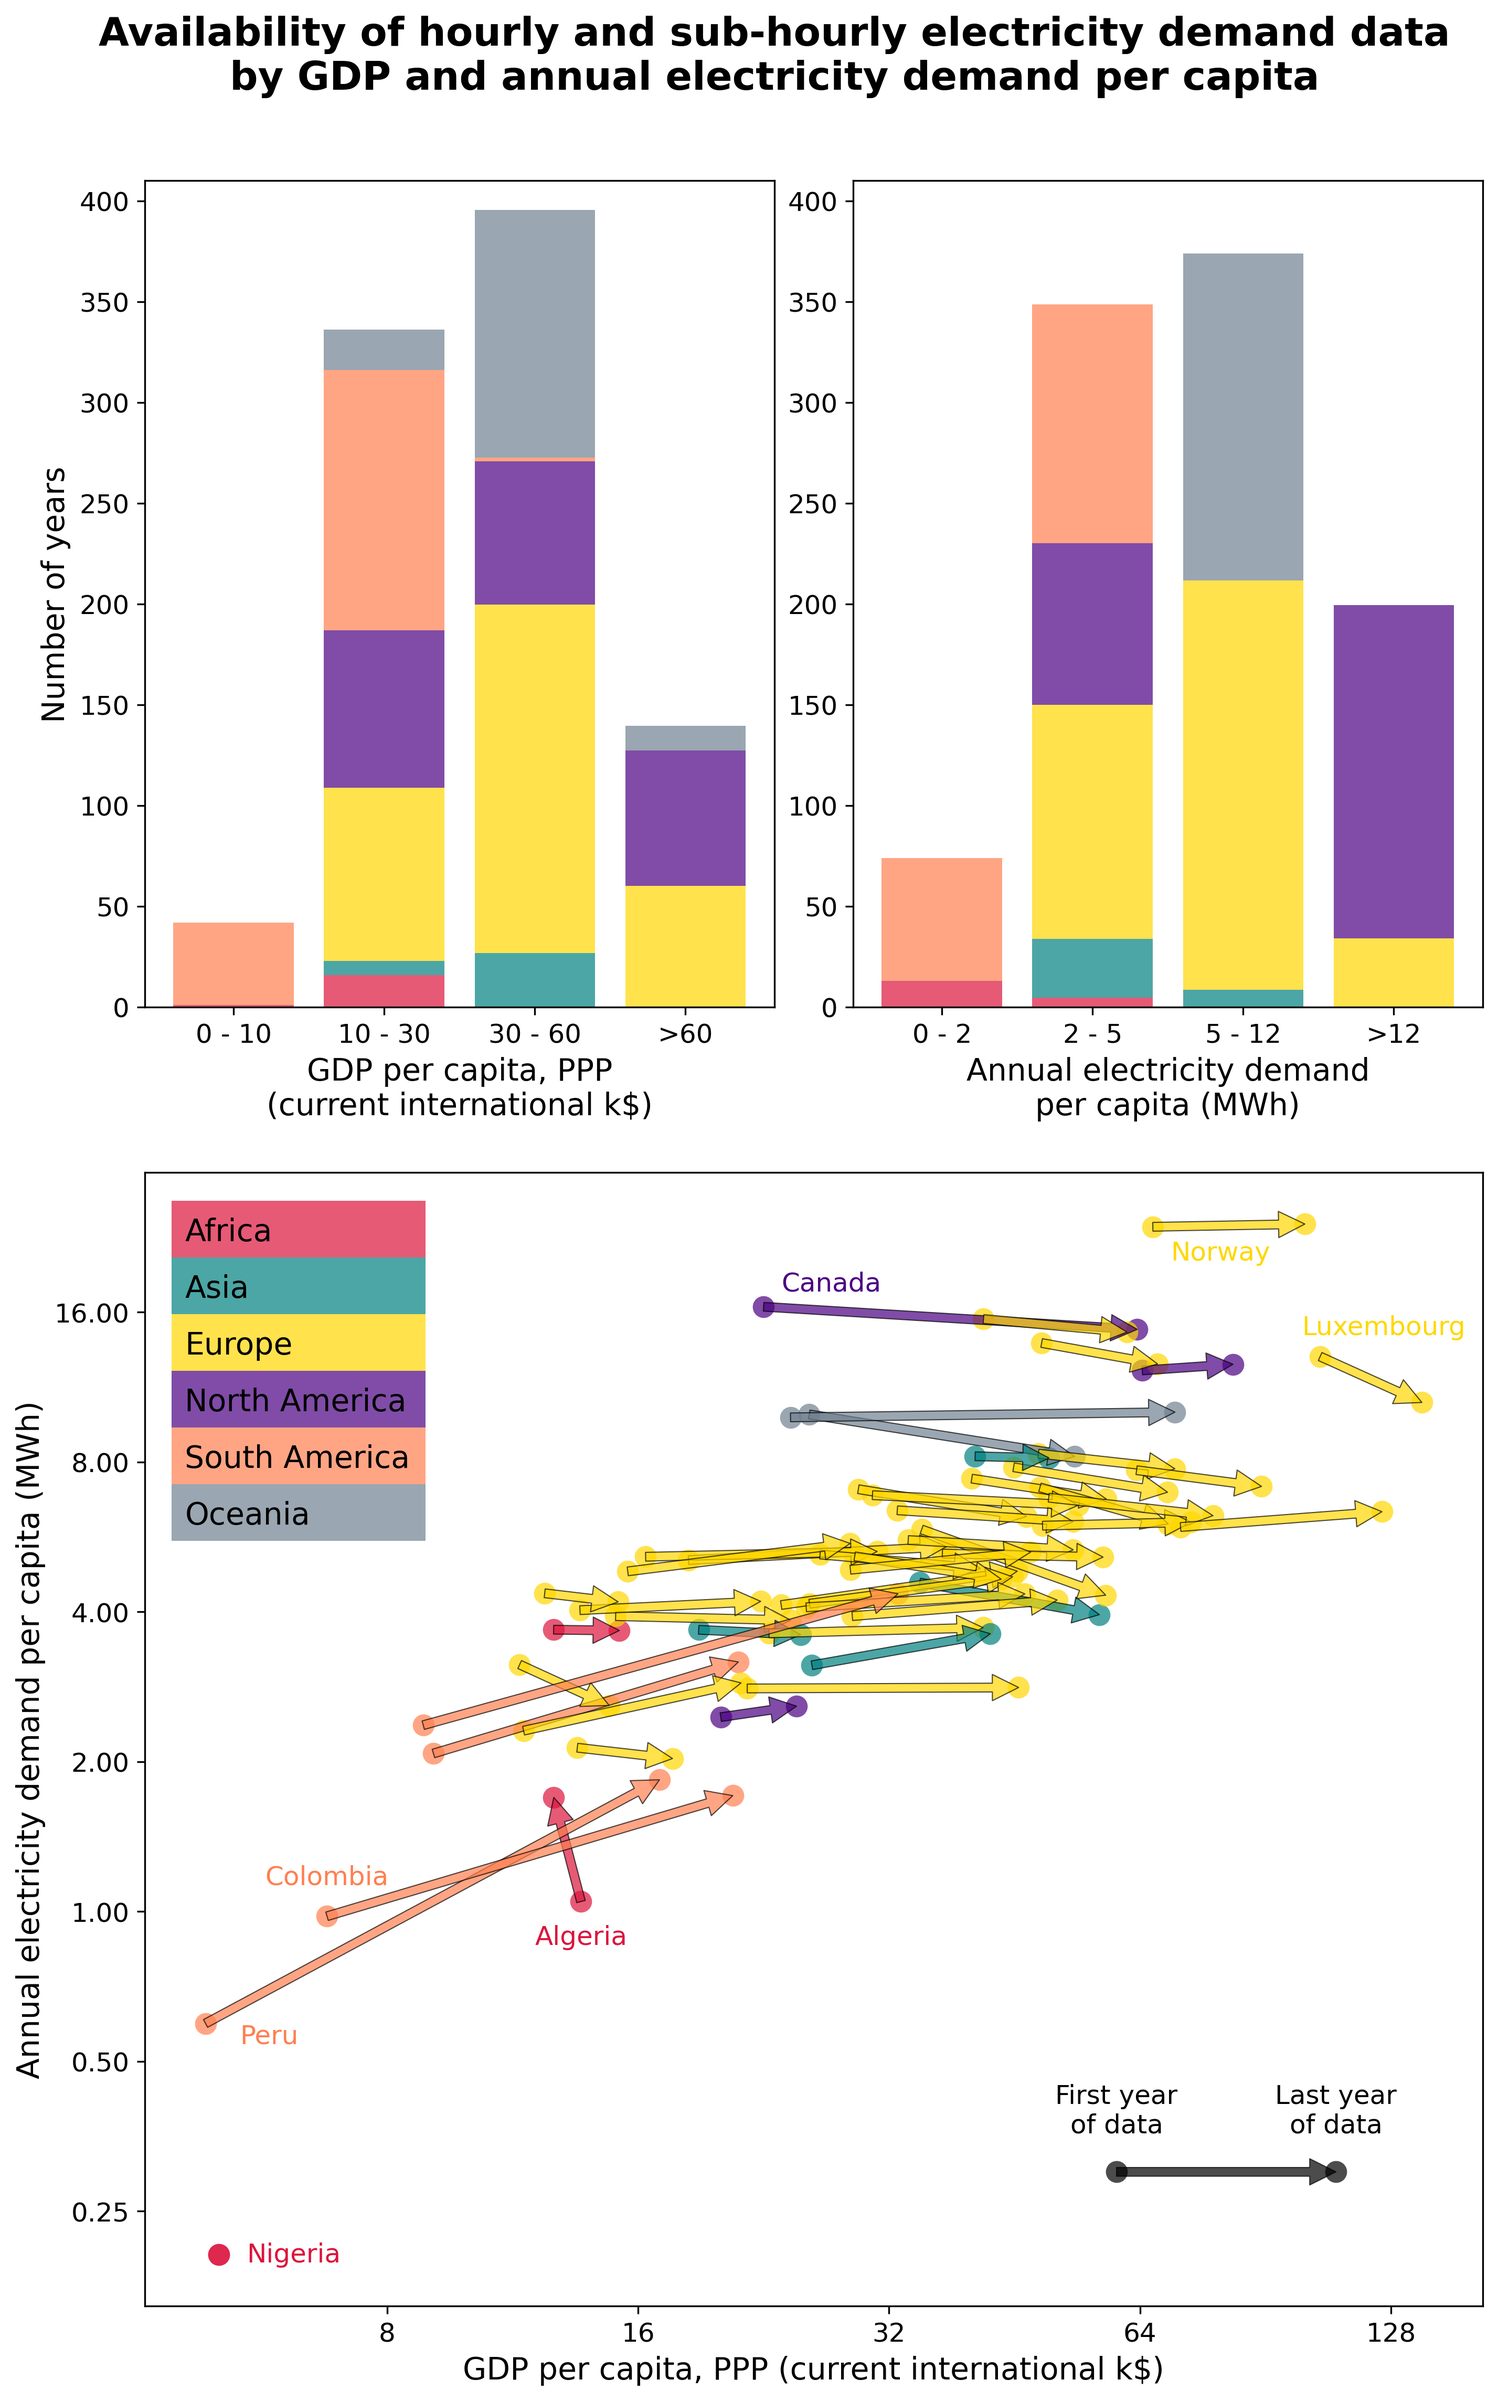
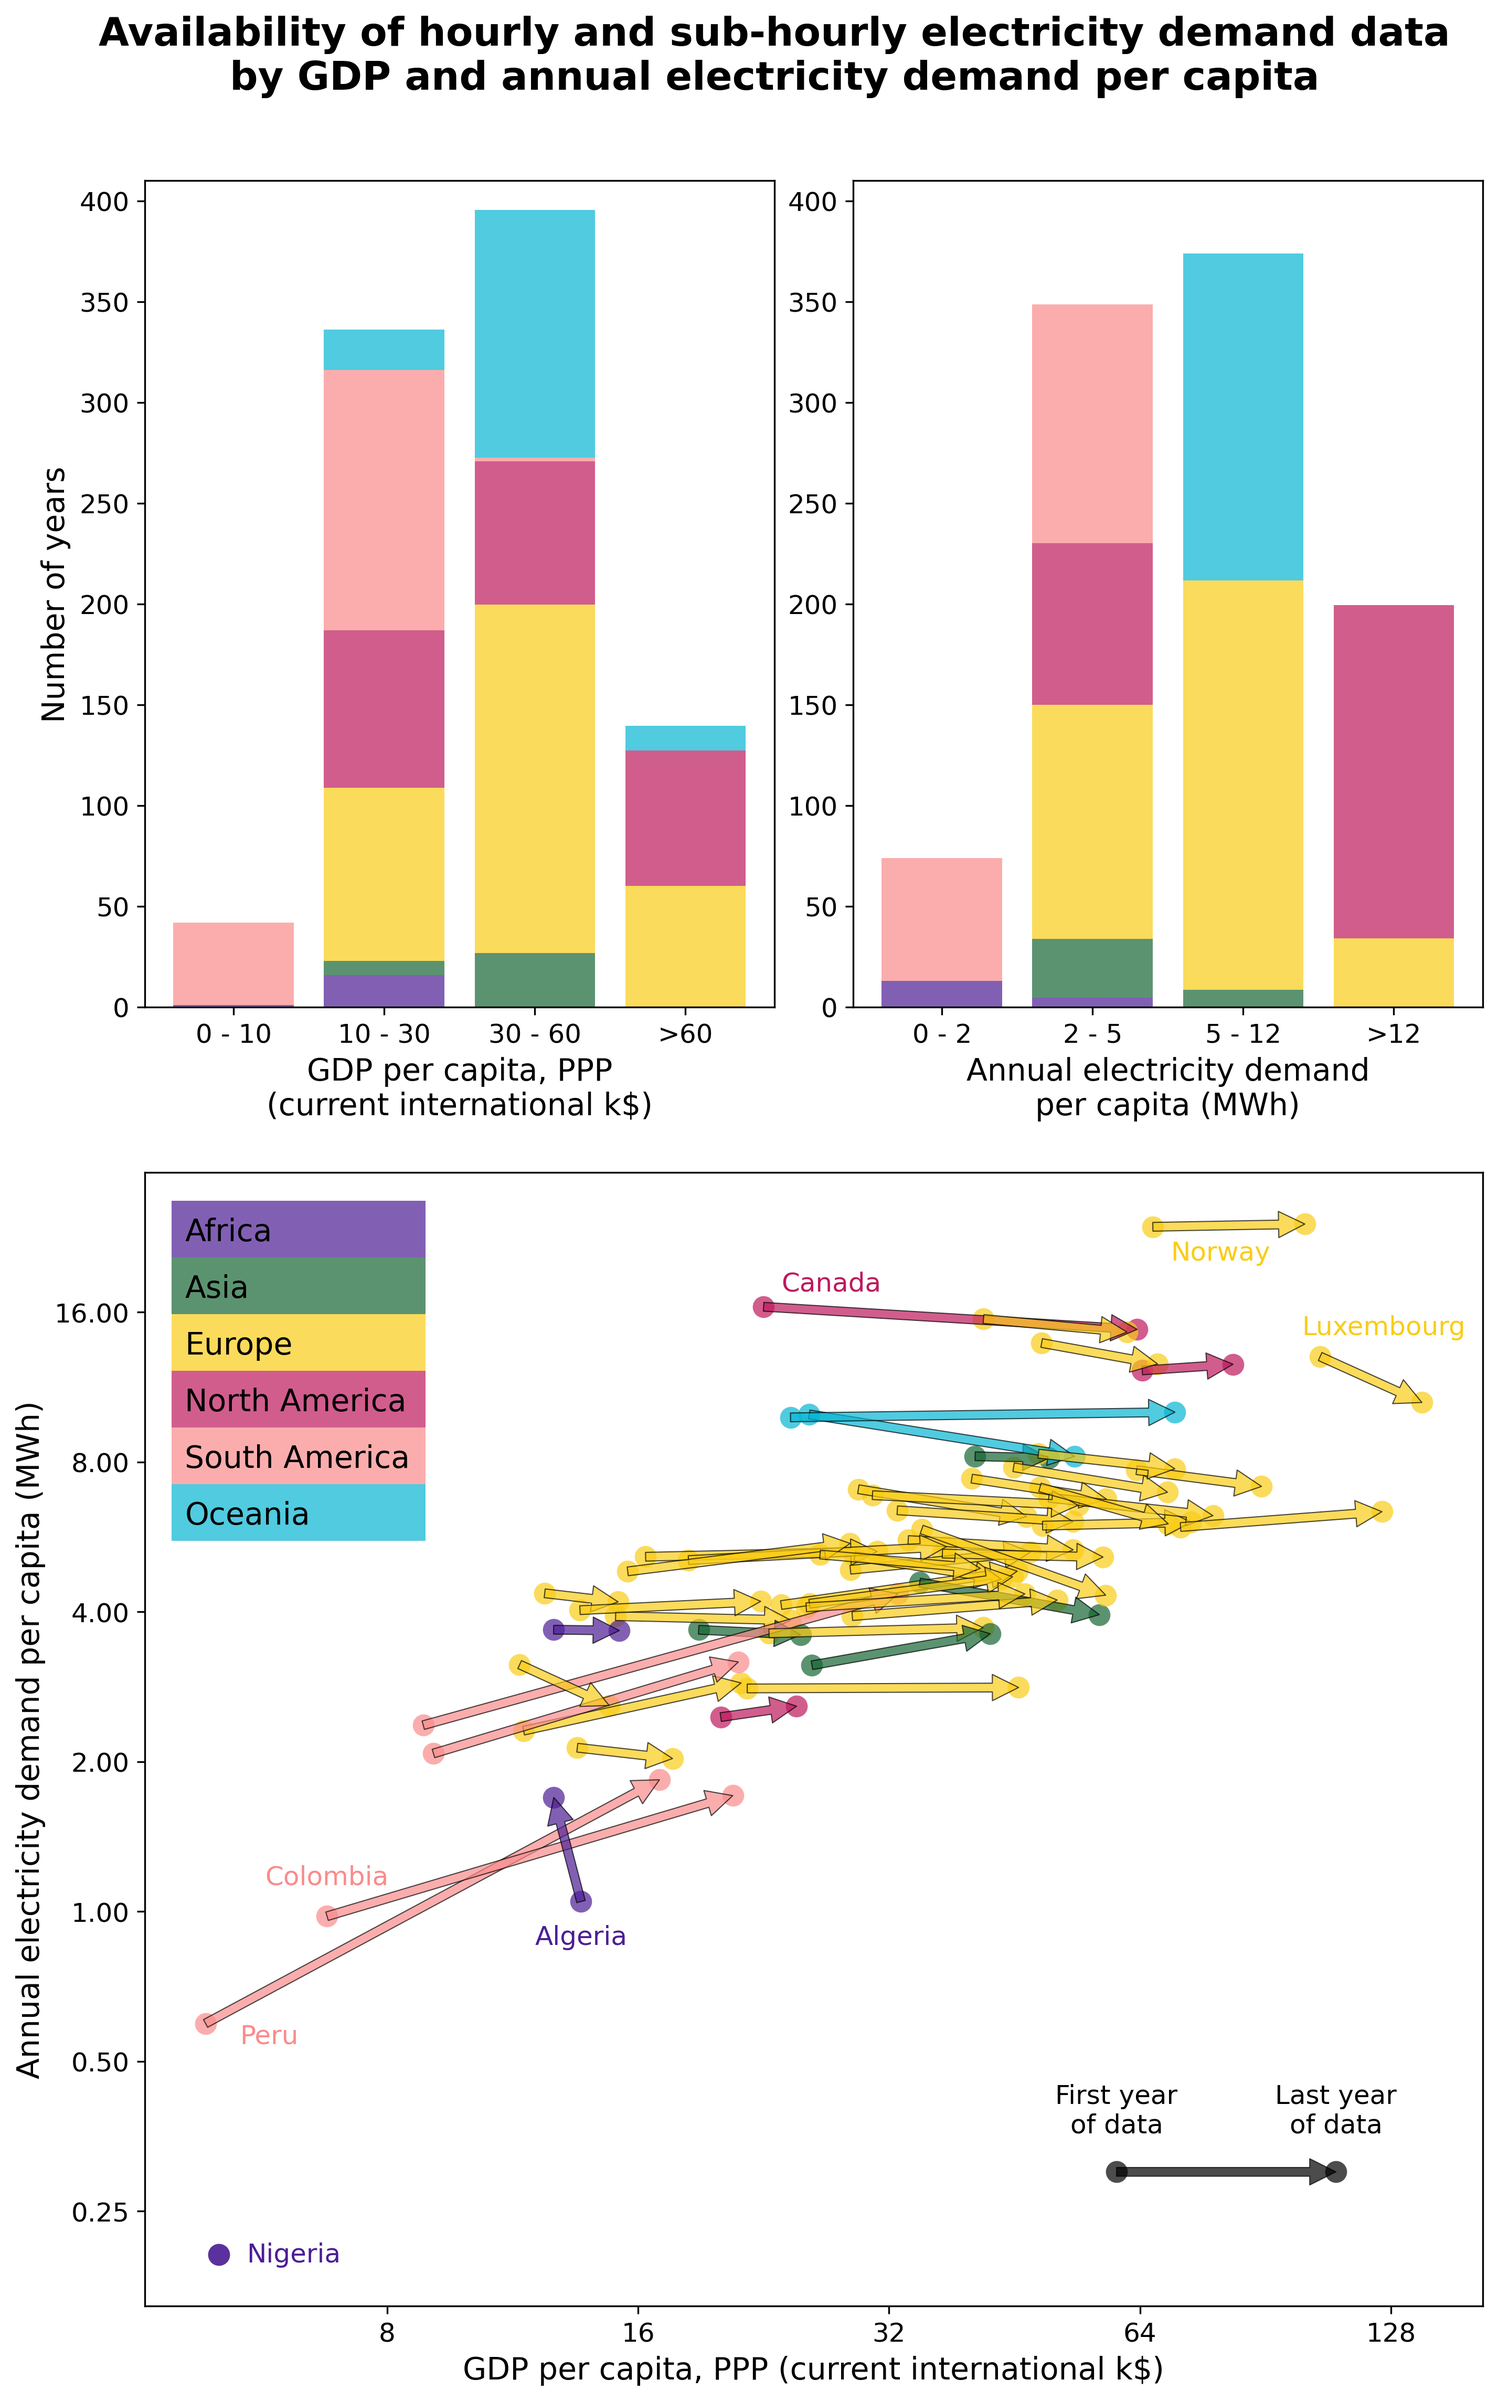
Updated colors

diff --git a/ETL/draw_data_availability.py b/ETL/draw_data_availability.py
@@ -27,6 +27,7 @@ import pandas
 import requests
 import util.directories
 import util.entities
+from tailwind_colors import TAILWIND_COLORS_HEX
 
 
 def get_year_fractions(codes: list[str]) -> dict[str, dict[str, float]]:
@@ -511,12 +512,12 @@ gdp_occurrence = get_occurrences(
 
 # Define the colors for the continents.
 colors = {
-    "AF": "crimson",  # Africa
-    "AS": "teal",  # Asia
-    "EU": "gold",  # Europe
-    "NA": "indigo",  # North America
-    "SA": "coral",  # South America
-    "OC": "slategray",  # Oceania
+    "AF": TAILWIND_COLORS_HEX.VIOLET_900, # Africa
+    "AS": TAILWIND_COLORS_HEX.GREEN_800, # Asia
+    "EU": TAILWIND_COLORS_HEX.YELLOW_400, # Europe
+    "NA": TAILWIND_COLORS_HEX.PINK_700, # North America
+    "SA": TAILWIND_COLORS_HEX.RED_350, # South America
+    "OC": TAILWIND_COLORS_HEX.CYAN_500, # Oceania
 }
 
 # Set the font size.
